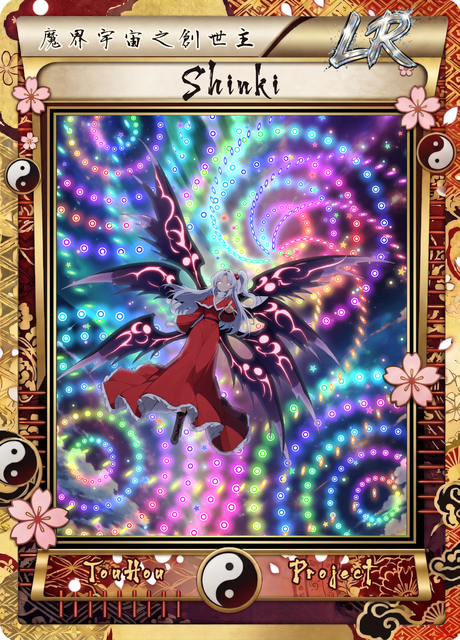
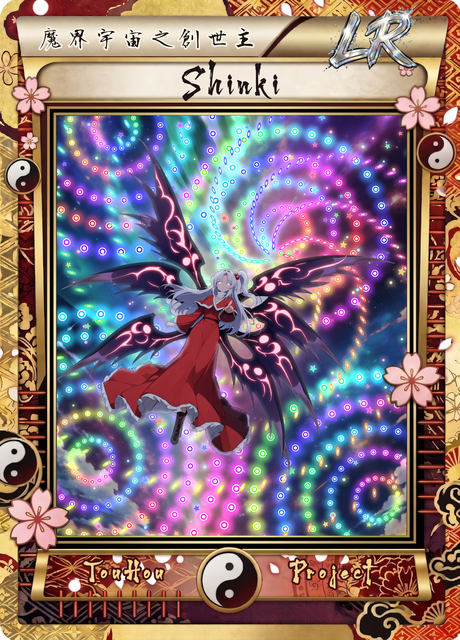
feat: 用 PhotoCraft 修神綺 LR 翅膀羽尖 (壓暗淡紫色)
- 新增 tools/card_art/layered/photocraft.py：直接以 stdio JSON-RPC 操作 photocraft-cli mcp
- 新增 pc_shinki_LR_tips.py：色彩範圍選取羽尖 → 扣掉頭髮、衣服、外側光暈 → 曲線壓暗
- hd_card.py：疊層優先用 PhotoCraft 手修版 10c_char_photocraft.png

diff --git a/tools/card_art/layered/pc_shinki_LR_tips.py b/tools/card_art/layered/pc_shinki_LR_tips.py
@@ -1,0 +1,56 @@
+"""用 PhotoCraft 把神綺 LR 翅膀外緣的淡紫色羽尖壓暗 (2026-10-30)
+python pc_shinki_LR_tips.py preview   選取範圍反相後存預覽，確認選到哪裡
+python pc_shinki_LR_tips.py apply     壓暗並匯出 Documents/photocraft_out/shinki_LR_10b_fixed.png
+                                      ➔ 複製成 images/Original/TH05/shinki/LR/10c_char_photocraft.png
+心得：select.colorRange 的 points (滴管) 沒生效、會退回前景色黑色，要直接給 color / colors；
+      淡色低飽和度用色相偏移看不出選取範圍，用 invert 預覽；用 transparency 交集保護外側光暈"""
+import base64
+import os
+import sys
+
+from photocraft import PC
+
+OUT = os.path.expanduser(r"~\Documents\photocraft_out")   # 預覽圖也存到 PhotoCraft 的輸出資料夾
+SRC = "TH05/shinki/LR/10b_char_lit.png"
+mode = sys.argv[1] if len(sys.argv) > 1 else "preview"   # preview：只看選取範圍；apply：調整並匯出
+
+TIPS = [[330, 110], [1180, 548], [60, 640], [40, 980], [250, 300], [1100, 560], [120, 900], [900, 1250]]
+TIP_COLORS = ["#a292b4", "#b07fae", "#ad9dbe", "#c8a0d0", "#9a88c0", "#b8a8d8"]   # 羽尖的淡紫色 (從圖上取樣)
+HAIR = [[600, 620], [520, 700], [700, 700], [650, 760]]
+HEAD = [[540, 540], [740, 540], [810, 640], [800, 780], [720, 840], [560, 850], [410, 820], [390, 700], [450, 590]]
+DRESS = [[420, 700], [660, 690], [720, 820], [760, 1100], [740, 1290], [560, 1320], [160, 1170], [160, 990], [320, 880]]
+
+
+def run(pc, cid, **params):
+    _, t = pc.call("command_run", id=cid, params=params)
+    print(cid, (t or "")[:160])
+
+
+def save_preview(pc, name):
+    res, _ = pc.call("render_preview", max_side=1024)
+    for c in res["content"]:
+        if c.get("type") == "image":
+            open(f"{OUT}\\{name}", "wb").write(base64.b64decode(c["data"]))
+            print("preview ->", name)
+
+
+pc = PC()
+print(pc.call("doc_open", path=SRC)[1][:200])
+run(pc, "image.duplicate")
+run(pc, "select.colorRange", select="sampledColors", color="#a292b4", colors=TIP_COLORS, fuzziness=40)
+run(pc, "select.lasso", points=HEAD, mode="subtract")
+run(pc, "select.lasso", points=DRESS, mode="subtract")
+run(pc, "select.loadSelection", channel="transparency", operation="intersect")   # 只改不透明的人物，外側光暈不動
+run(pc, "select.modify.feather", radius=3)
+if mode == "preview":
+    # 選取範圍反相，看抓到哪裡
+    run(pc, "image.adjustments.invert")
+    save_preview(pc, "sel_preview.png")
+else:
+    # 曲線壓暗 + 稍微往深紫靠
+    run(pc, "image.adjustments.curves", points=[[0, 0], [90, 45], [180, 95], [255, 150]])
+    run(pc, "image.adjustments.hueSaturation", hue=0, saturation=15, lightness=-10)
+    run(pc, "select.deselect")
+    save_preview(pc, "fixed_preview.png")
+    print(pc.call("doc_export", path="shinki_LR_10b_fixed.png")[1][:300])
+pc.close()

diff --git a/tools/card_art/layered/photocraft.py b/tools/card_art/layered/photocraft.py
@@ -1,0 +1,48 @@
+"""直接跟 photocraft-cli mcp (stdio JSON-RPC) 對話的小工具
+對話開始後才加的 MCP 伺服器不會載入成工具，用這個一樣能操作 PhotoCraft：
+    pc = PC(); pc.call("doc_open", path="TH05/shinki/LR/10b_char_lit.png"); pc.call("command_run", id="...", params={...})
+設定讀專案根目錄的 .mcp.json (只能讀 images/Original、只能寫 Documents/photocraft_out)"""
+import json
+import os
+import subprocess
+
+MCP_JSON = os.path.join(os.path.dirname(os.path.abspath(__file__)), "..", "..", "..", ".mcp.json")
+CFG = json.load(open(MCP_JSON, encoding="utf-8"))["mcpServers"]["photocraft"]
+
+
+class PC:
+    def __init__(self):
+        self.p = subprocess.Popen([CFG["command"]] + CFG["args"], stdin=subprocess.PIPE, stdout=subprocess.PIPE,
+                                  stderr=subprocess.DEVNULL, text=True, encoding="utf-8")
+        self.n = 0
+        self._req("initialize", {"protocolVersion": "2025-06-18", "capabilities": {}, "clientInfo": {"name": "claude", "version": "0"}})
+        self._send({"jsonrpc": "2.0", "method": "notifications/initialized"})
+
+    def _send(self, m):
+        self.p.stdin.write(json.dumps(m) + "\n")
+        self.p.stdin.flush()
+
+    def _req(self, method, params):
+        self.n += 1
+        self._send({"jsonrpc": "2.0", "id": self.n, "method": method, "params": params})
+        while True:
+            r = json.loads(self.p.stdout.readline())
+            if r.get("id") == self.n:
+                return r
+
+    def tools(self):
+        return self._req("tools/list", {})["result"]["tools"]
+
+    def call(self, name, **args):
+        r = self._req("tools/call", {"name": name, "arguments": args})
+        if "error" in r:
+            raise RuntimeError(r["error"])
+        res = r["result"]
+        texts = [c.get("text") for c in res.get("content", []) if c.get("type") == "text"]
+        if res.get("isError"):
+            raise RuntimeError("\n".join(t for t in texts if t))
+        return res, "\n".join(t for t in texts if t)
+
+    def close(self):
+        self.p.stdin.close()
+        self.p.terminate()

diff --git a/tools/card_art/layered/hd_card.py b/tools/card_art/layered/hd_card.py
@@ -12,6 +12,7 @@
         09_char_cut_hd.png 去背 (BiRefNet)
         10_char.png        裁掉空白、傾斜 (tilt)、縮到剛好完整放進畫窗 (× char_scale)，放到畫窗大小的畫布 (offset 微調，超出切掉) ★
         10b_char_lit.png   打光 (relight.py：背光、輪廓光、翅膀紋路與眼睛發光；LAYERS 有 light 才做) ★ 有這張就用這張
+        10c_char_photocraft.png  PhotoCraft 手修 (例如 pc_shinki_LR_tips.py) ★ 有這張就優先用；10b 重做後要記得重修
   疊層  11_art.png         背景 + 人物 (沒有框的完整原圖，也複製到 Original/Art/<角色>_<階級>.png；
                            10_char.png 另外複製成 Art/<角色>_<階級>_char.png)
         12_bg_frame.png    背景 + 卡框
@@ -254,9 +255,10 @@ def make_light(char_id, rarity):
 
 
 def char_layer(d):
-    """疊層用的人物：有打光版就用打光版"""
-    lit = os.path.join(d, "10b_char_lit.png")
-    return lit if os.path.exists(lit) else os.path.join(d, "10_char.png")
+    """疊層用的人物：PhotoCraft 手修版 (10c) > 打光版 (10b) > 10"""
+    for name in ("10c_char_photocraft.png", "10b_char_lit.png", "10_char.png"):
+        if os.path.exists(os.path.join(d, name)):
+            return os.path.join(d, name)
 
 
 def layered_paths(char_id, rarity):
